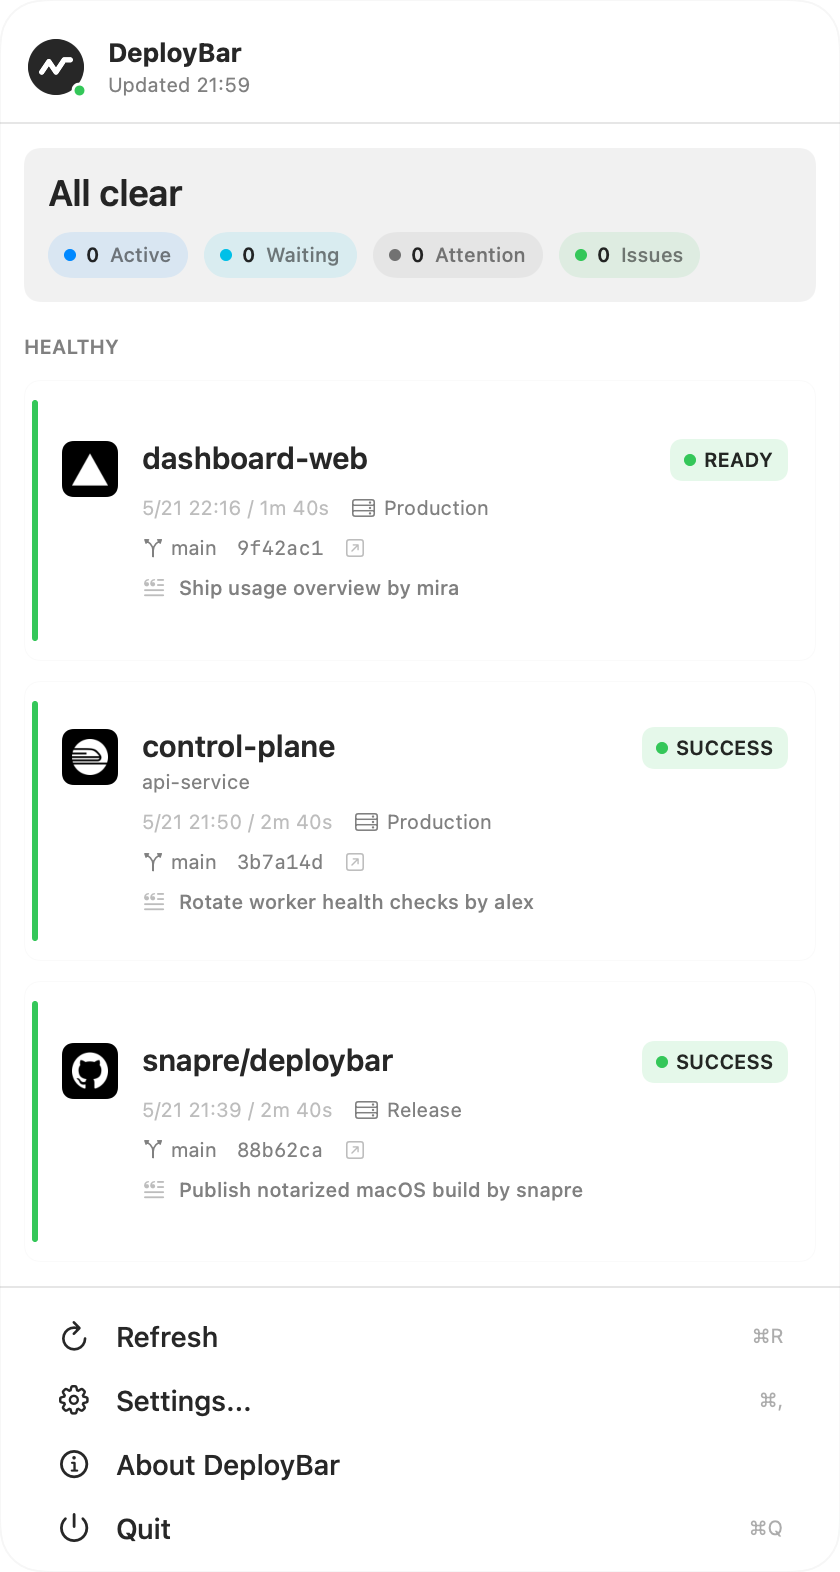
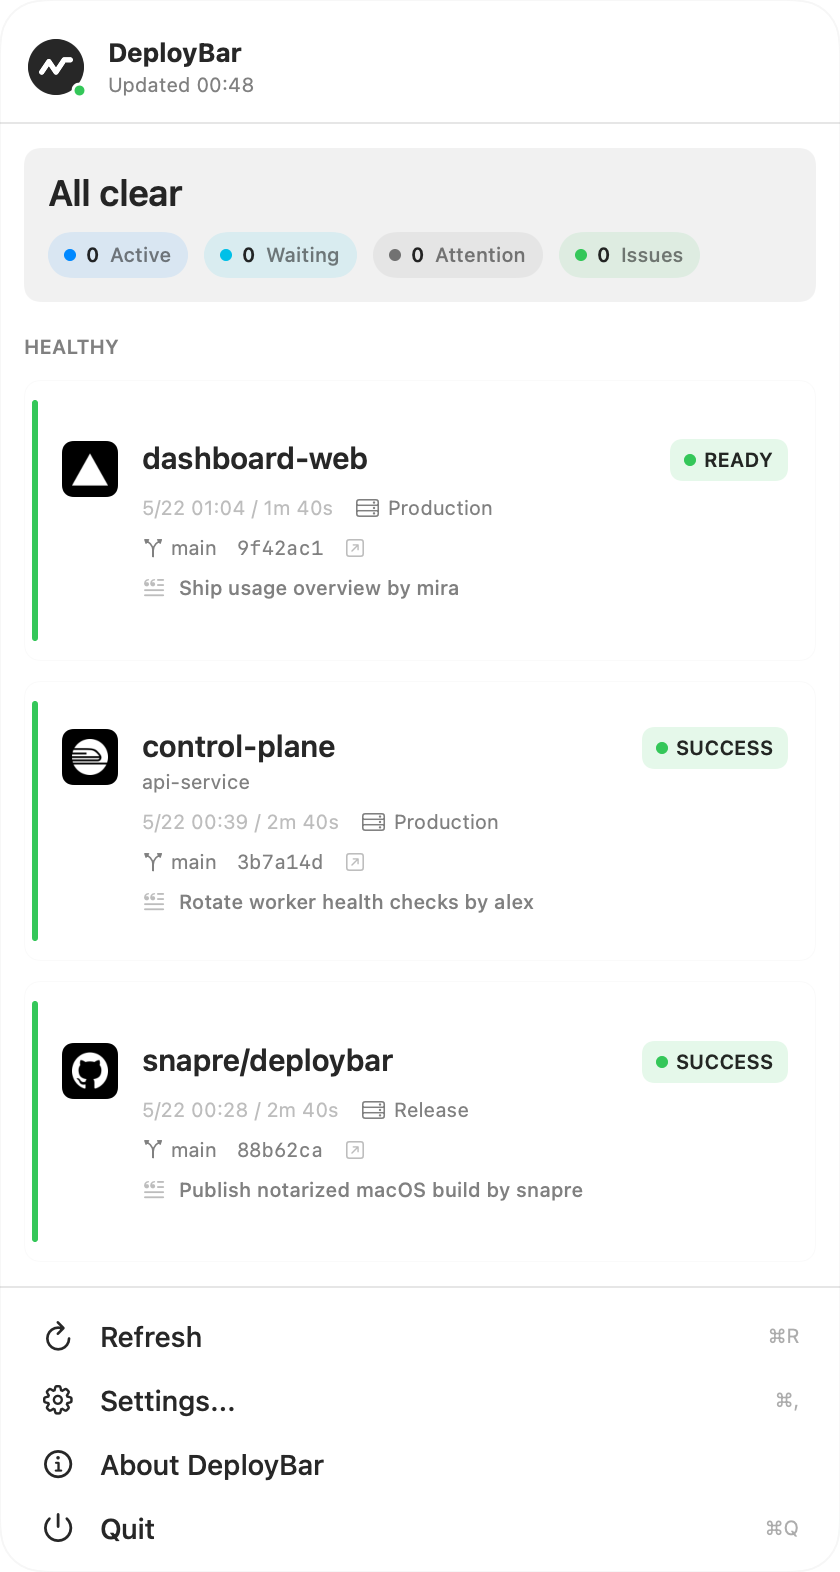
Add dark website screenshots

diff --git a/docs/index.html b/docs/index.html
@@ -580,9 +580,15 @@
         inset: 0;
         width: 100%;
         height: 100%;
-        object-fit: contain;
         opacity: 0;
         animation: preview-cycle 15s infinite;
+      }
+
+      .product-screenshot img {
+        display: block;
+        width: 100%;
+        height: 100%;
+        object-fit: contain;
       }
 
       .product-screenshot:nth-child(2) {
@@ -1233,27 +1239,33 @@
           <div class="mac-desktop" aria-label="DeployBar running from the macOS menu bar">
             <div class="mac-popover">
               <div class="product-carousel" aria-label="DeployBar provider previews">
-                <img
-                  class="product-screenshot"
-                  src="assets/deploybar-provider-preview-1.png"
-                  alt="DeployBar popover preview with mocked Vercel, Railway, and GitHub deployment rows."
-                  width="840"
-                  height="1572"
-                >
-                <img
-                  class="product-screenshot"
-                  src="assets/deploybar-provider-preview-2.png"
-                  alt="DeployBar popover preview with mocked Netlify, Render, and Cloudflare Pages deployment rows."
-                  width="840"
-                  height="1572"
-                >
-                <img
-                  class="product-screenshot"
-                  src="assets/deploybar-provider-preview-3.png"
-                  alt="DeployBar popover preview with mocked DigitalOcean, Heroku, and GitLab deployment rows."
-                  width="840"
-                  height="1572"
-                >
+                <picture class="product-screenshot">
+                  <source srcset="assets/deploybar-provider-preview-1-dark.png" media="(prefers-color-scheme: dark)">
+                  <img
+                    src="assets/deploybar-provider-preview-1.png"
+                    alt="DeployBar popover preview with mocked Vercel, Railway, and GitHub deployment rows."
+                    width="840"
+                    height="1572"
+                  >
+                </picture>
+                <picture class="product-screenshot">
+                  <source srcset="assets/deploybar-provider-preview-2-dark.png" media="(prefers-color-scheme: dark)">
+                  <img
+                    src="assets/deploybar-provider-preview-2.png"
+                    alt="DeployBar popover preview with mocked Netlify, Render, and Cloudflare Pages deployment rows."
+                    width="840"
+                    height="1572"
+                  >
+                </picture>
+                <picture class="product-screenshot">
+                  <source srcset="assets/deploybar-provider-preview-3-dark.png" media="(prefers-color-scheme: dark)">
+                  <img
+                    src="assets/deploybar-provider-preview-3.png"
+                    alt="DeployBar popover preview with mocked DigitalOcean, Heroku, and GitLab deployment rows."
+                    width="840"
+                    height="1572"
+                  >
+                </picture>
                 <div class="product-carousel-dots" aria-hidden="true"><span></span><span></span><span></span></div>
               </div>
             </div>

diff --git a/Sources/DeployBar/WebsiteScreenshotRenderer.swift b/Sources/DeployBar/WebsiteScreenshotRenderer.swift
@@ -35,7 +35,12 @@ enum WebsiteScreenshotRenderer {
 
         do {
             let now = Date()
-            try render(group: WebsitePreviewFixture.groups(now: now)[0], updatedAt: now, to: URL(fileURLWithPath: arguments[flagIndex + 1]))
+            try render(
+                group: WebsitePreviewFixture.groups(now: now)[0],
+                appearance: .light,
+                updatedAt: now,
+                to: URL(fileURLWithPath: arguments[flagIndex + 1])
+            )
             exit(EXIT_SUCCESS)
         } catch {
             fputs("Could not render website screenshot: \(error)\n", stderr)
@@ -48,22 +53,30 @@ enum WebsiteScreenshotRenderer {
         try FileManager.default.createDirectory(at: outputDirectory, withIntermediateDirectories: true)
 
         for group in WebsitePreviewFixture.groups(now: now) {
-            try render(
-                group: group,
-                updatedAt: now,
-                to: outputDirectory.appendingPathComponent(group.filename)
-            )
+            for appearance in WebsitePreviewAppearance.allCases {
+                try render(
+                    group: group,
+                    appearance: appearance,
+                    updatedAt: now,
+                    to: outputDirectory.appendingPathComponent(group.filename(for: appearance))
+                )
+            }
         }
     }
 
-    private static func render(group: WebsitePreviewGroup, updatedAt: Date, to outputURL: URL) throws {
+    private static func render(
+        group: WebsitePreviewGroup,
+        appearance: WebsitePreviewAppearance,
+        updatedAt: Date,
+        to outputURL: URL
+    ) throws {
         let store = DeploymentStore(
             settingsStore: SettingsStore(settingsURL: FileManager.default.temporaryDirectory.appendingPathComponent("deploybar-website-preview-\(group.index)-settings.json"))
         )
         store.loadWebsitePreview(snapshots: group.snapshots, lastRefreshAt: updatedAt)
 
         let view = WebsitePopoverScreenshot(store: store)
-        .environment(\.colorScheme, .light)
+            .environment(\.colorScheme, appearance.colorScheme)
 
         let renderer = ImageRenderer(content: view)
         renderer.scale = 2
@@ -90,6 +103,29 @@ private struct WebsitePreviewGroup {
     var index: Int
     var filename: String
     var snapshots: [DeploymentSnapshot]
+
+    func filename(for appearance: WebsitePreviewAppearance) -> String {
+        switch appearance {
+        case .light:
+            return filename
+        case .dark:
+            return "deploybar-provider-preview-\(index)-dark.png"
+        }
+    }
+}
+
+private enum WebsitePreviewAppearance: CaseIterable {
+    case light
+    case dark
+
+    var colorScheme: ColorScheme {
+        switch self {
+        case .light:
+            return .light
+        case .dark:
+            return .dark
+        }
+    }
 }
 
 private struct WebsitePopoverScreenshot: View {
